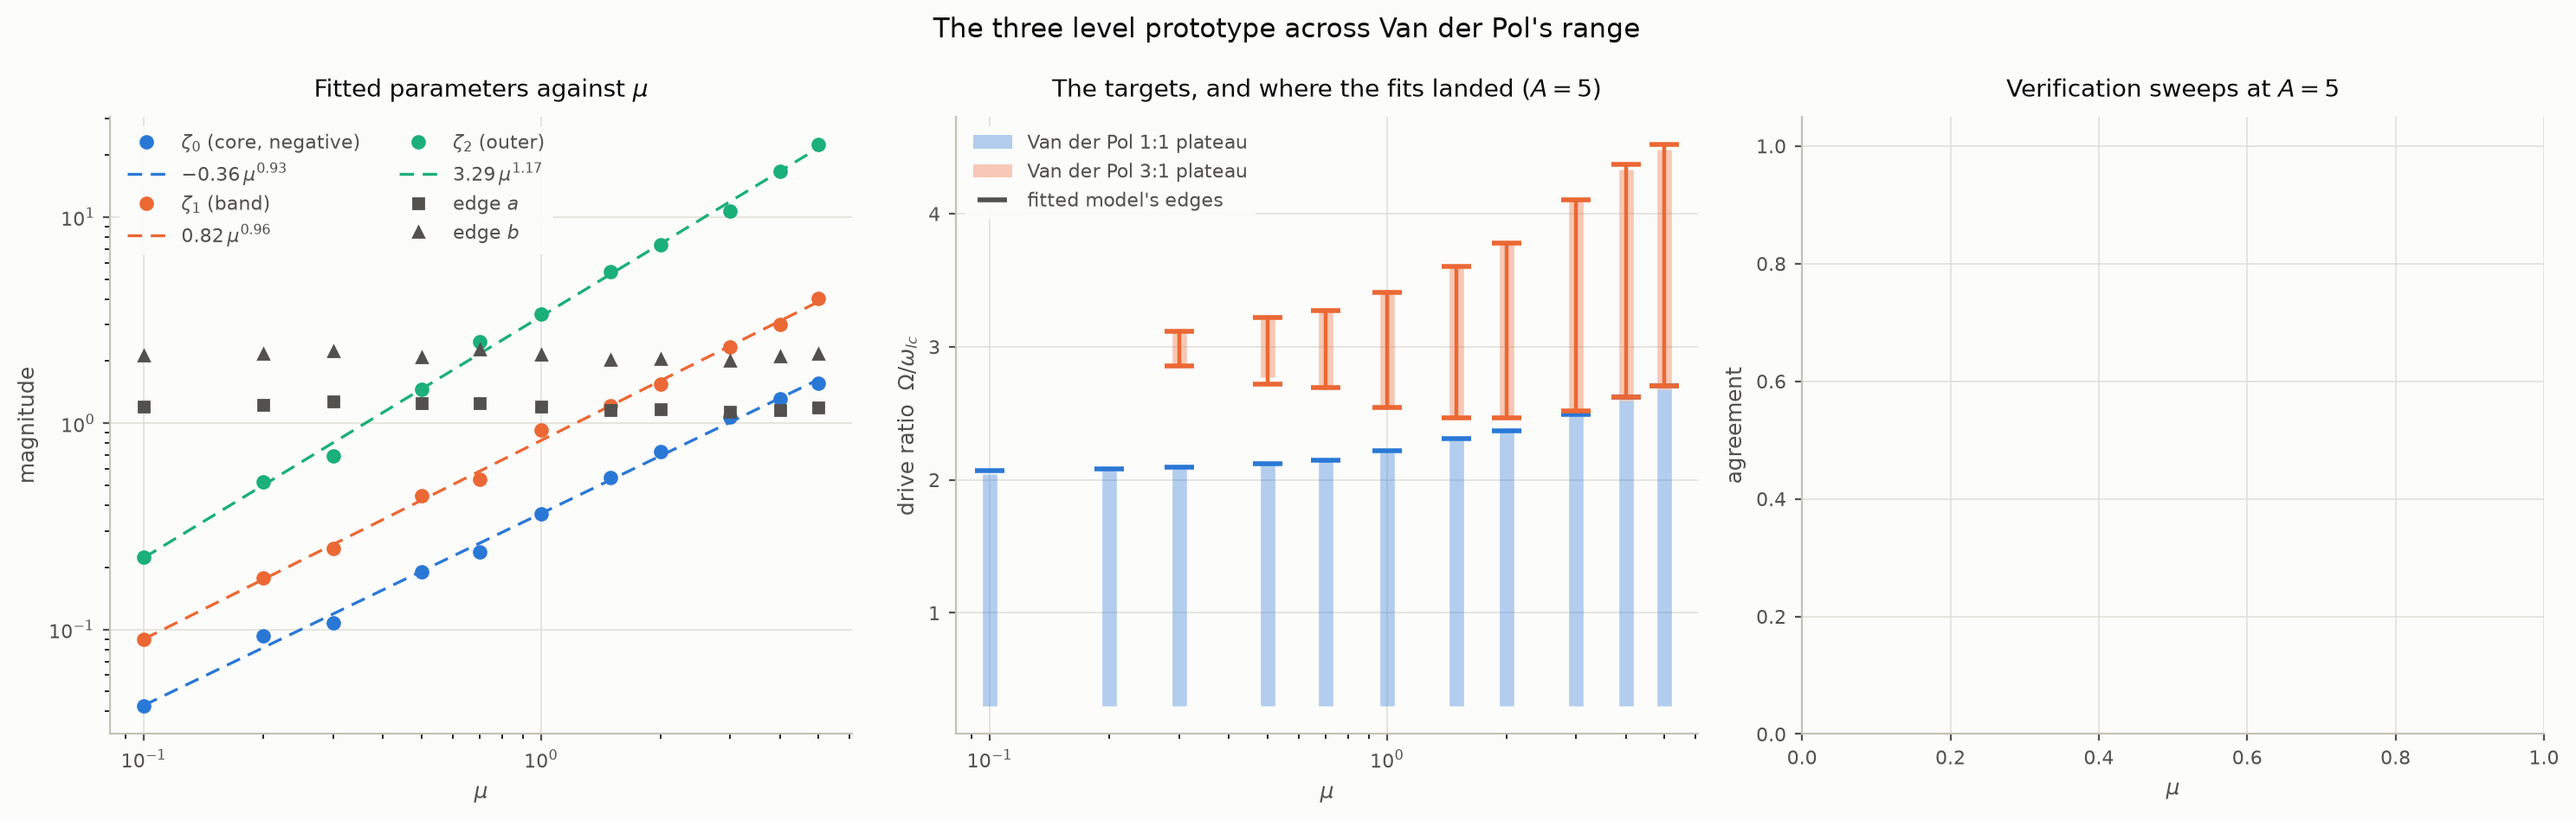
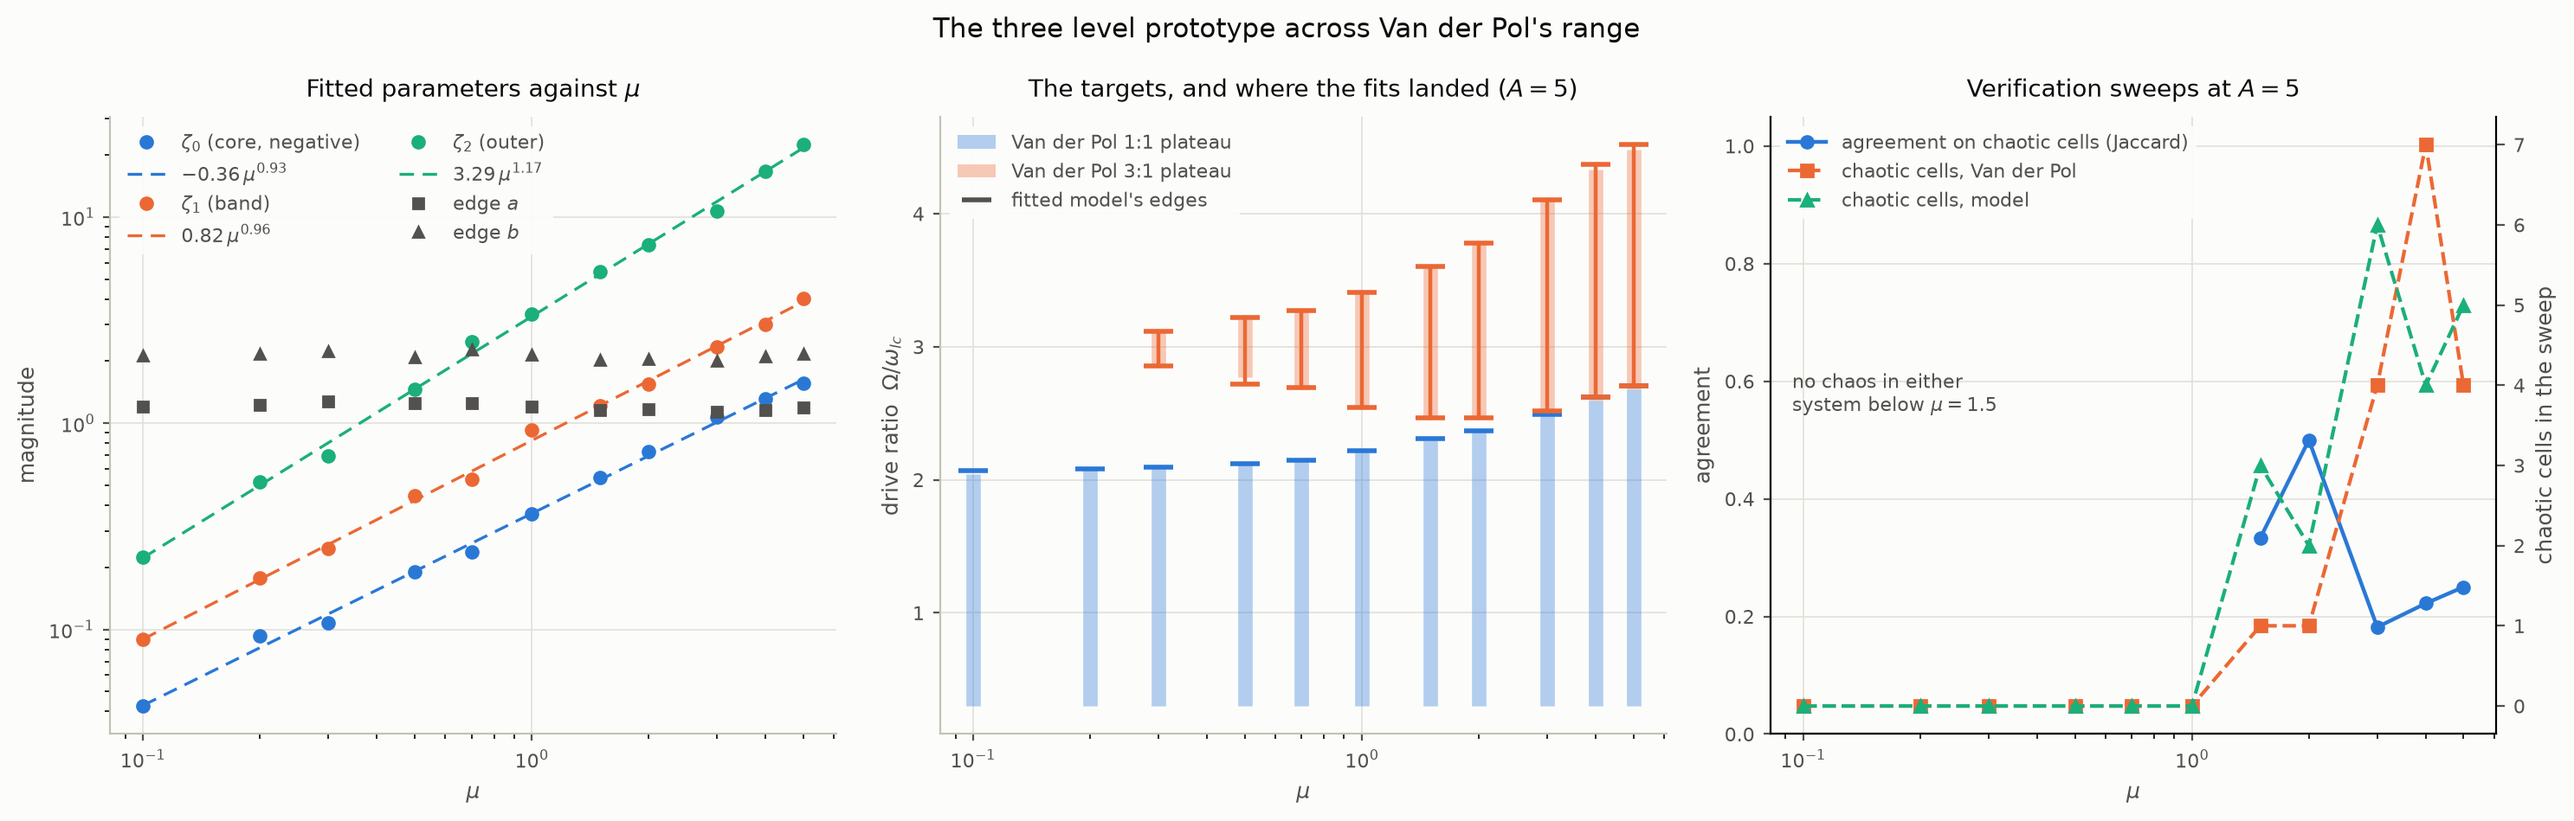
THREELEVEL.md: the campaign complete, its verification and the chaos-prediction rule
Eleven fits from mu = 0.1 to 5 on one objective, each verified by a sweep
at A = 5 beside Van der Pol. Below mu = 1.5 neither system has chaos; from
1.5 Van der Pol goes chaotic at the lock-1 to lock-3 transition and from 3
at the transitions above the 3:1 plateau, and the model has chaos at the
same transitions within 0.05 in drive ratio at every mu, missing only the
3:1 to 4:1 transition at mu = 3.

Claude-Session: https://claude.ai/code/session_01TCkveJPUbZ33KP7WqV2MuG

diff --git a/figures.py b/figures.py
@@ -1790,8 +1790,14 @@ def fig_campaign(th, name, results=None):
     ver = sorted((float(k), v) for k, v in results["verify"].items())
     if ver:
         vm = np.array([m for m, _ in ver])
-        ax.semilogx(vm, [v["jaccard"] for _, v in ver], "o-", color=th["series"][0],
-                    linewidth=1.6, markersize=5, zorder=4, label="agreement (Jaccard)")
+        jac = np.array([v["jaccard"] for _, v in ver], float)
+        ok = np.isfinite(jac)
+        ax.semilogx(vm[ok], jac[ok], "o-", color=th["series"][0],
+                    linewidth=1.6, markersize=5, zorder=4,
+                    label="agreement on chaotic cells (Jaccard)")
+        ax.text(0.03, 0.55, "no chaos in either\nsystem below $\\mu = 1.5$",
+                transform=ax.transAxes, fontsize=8, color=th["ink2"],
+                ha="left", va="center")
         ax2 = ax.twinx()
         ax2.semilogx(vm, [len(v["vdp"]["chaotic"]) for _, v in ver], "s--",
                      color=th["series"][1], markersize=5, zorder=3,

diff --git a/THREELEVEL.md b/THREELEVEL.md
@@ -28,8 +28,10 @@ tested grid and its chaotic bands at the two strengths that have them,
 missing one band a single fine cell wide, with a two per cent frequency
 offset it inherits from a seven per cent longer free period. Its five
 parameters are a shape chosen for the driven response, not a sampling of
-Van der Pol's damping law. At $`\mu = 1`$, where Van der Pol only entrains
-apart from one narrow period-doubled band, the fit is below.
+Van der Pol's damping law. The campaign then fitted it at eleven values
+of $`\mu`$ from 0.1 to 5 on one objective; the parameters lie on power
+laws in $`\mu`$ with fixed edges, and at every $`\mu`$ the model has
+chaos where Van der Pol has it and none where it has none.
 
 ## Parameters and units
 
@@ -499,8 +501,17 @@ Power laws through the fits (11 points): $`\zeta_0 = -0.365\,\mu^{0.930}`$; $`\z
 
 | $`\mu`$ | agreement | chaotic cells, Van der Pol | where | chaotic cells, model | where |
 | --- | --- | --- | --- | --- | --- |
+| 0.1 | none in either | 0 | — | 0 | — |
+| 0.2 | none in either | 0 | — | 0 | — |
+| 0.3 | none in either | 0 | — | 0 | — |
+| 0.5 | none in either | 0 | — | 0 | — |
+| 0.7 | none in either | 0 | — | 0 | — |
+| 1 | none in either | 0 | — | 0 | — |
+| 1.5 | 0.333 | 1 | 1–3 at 2.46 | 3 | 1–3 at 2.42–2.46 |
 | 2 | 0.500 | 1 | 1–3 at 2.46 | 2 | 1–3 at 2.44–2.46 |
 | 3 | 0.182 | 4 | 1–3 at 2.52; 3–4 at 4.12; 3–4 at 4.30; 4–5 at 4.48 | 6 | 1–3 at 2.52–2.54; 4–5 at 4.50–4.54; 4–5 at 4.58 |
+| 4 | 0.222 | 7 | 3–5 at 4.34–4.36; 3–5 at 4.40–4.42; 3–5 at 4.54–4.58 | 4 | 3–4 at 4.38–4.42; 3–4 at 4.46 |
+| 5 | 0.250 | 4 | 3–5 at 4.50; 3–5 at 4.56–4.60 | 5 | 3–5 at 4.54–4.58; 3–5 at 4.68–4.70 |
 <!-- /FITTABLE -->
 
 ### Formulas
@@ -548,6 +559,40 @@ started from the interpolation or the laws landed within a coarse step
 of all three targets before the first evaluation, and three of them did
 not move at all.
 
+### Predicting chaos
+
+The verification table above is the test of the one thing this model is
+most wanted for: saying whether a drive will produce chaos. Read across
+$`\mu`$ at $`A = 5`$:
+
+- **Below $`\mu = 1.5`$ neither system has any chaos** in the sweep, at
+  any drive ratio from 0.5 to 6. The model predicts none, and there is
+  none.
+- **From $`\mu = 1.5`$ Van der Pol goes chaotic at the transition from
+  the 1:1 lock to the 3:1 lock**, one or two cells wide, and the model
+  has chaos at the same transition at 1.5, 2 and 3, within 0.05 in drive
+  ratio.
+- **From $`\mu = 3`$ chaos appears at the transitions above the 3:1
+  plateau** — 3:1 to 4:1, 4:1 to 5:1, then the direct 3:1 to 5:1 — and
+  the model has it in the same region at 3, 4 and 5, its cells within
+  0.05 to 0.1 of Van der Pol's.
+- **The one systematic miss** is the 3:1 to 4:1 transition at $`\mu = 3`$,
+  where Van der Pol has two cells and the model switches through a torus.
+  At $`\mu = 4`$ the model's cells sit at the 3:1 to 4:1 transition where
+  Van der Pol's sit at 3:1 to 5:1, the same region a tenth of a unit apart.
+
+So the rule a user can apply is plain. Fit the model, or take its
+parameters from the formulas with $`\mu`$ read from the free waveform, and
+sweep its drive frequency at the working drive strength: **where its lock
+plateaus meet, chaos is coming**, at the first transition above the 1:1
+lock once the ratios are of order one and at the transitions above the
+3:1 lock once they are of order three, and the frequencies at which it
+comes are the model's to within a twentieth of a unit of drive ratio.
+Where the model's plateaus meet cleanly, no chaos is coming. The
+agreement measured cell by cell is modest, 0.2 to 0.5, because the bands
+are one to four cells wide and shifted by a cell or two; the agreement on
+*whether* and *at which transition* is complete apart from the one miss.
+
 <picture>
   <source media="(prefers-color-scheme: dark)" srcset="figures/campaign-dark.png">
   <img alt="The fitted damping ratios and edges against mu with power laws through them, Van der Pol's plateau edges at each mu with the fitted models' edges over them, and the verification agreement against mu" src="figures/campaign-light.png">
@@ -576,11 +621,14 @@ is not enough; two drive strengths are.
 
 ## Gaps
 
-- **Two relaxation parameters fitted**, $`\mu = 5`$ and $`\mu = 1`$. Nothing
-  in between or beyond, so the parameter table against $`\mu`$ has two
-  rows and no rule.
-- **The grid is the proof.** Drive strength to 10 and ratio to 8; outside
-  it the model is untested.
+- **Nothing beyond $`\mu = 5`$.** Eleven fits from 0.1 to 5 lie on power
+  laws; whether the laws hold at 7 or 10, where Van der Pol is a hard
+  relaxation oscillator, is untested.
+- **One drive strength in the fit.** Every campaign fit used the plateau
+  edges at $`A = 5`$ (plus the tongue at $`A = 1`$ below $`\mu = 0.3`$);
+  the $`\mu = 5`$ regime map is the only test across drive strength.
+- **The grid is the proof.** Drive strength to 10 and ratio to 8 at
+  $`\mu = 5`$ and 1; ratio to 6 at $`A = 5`$ elsewhere.
 - **The frequency offset.** Every lock of the $`\mu = 5`$ fit sits two per
   cent low, carried by the seven per cent longer free period. Tighter
   leeway on the period, or two drive strengths in the objective, has not
